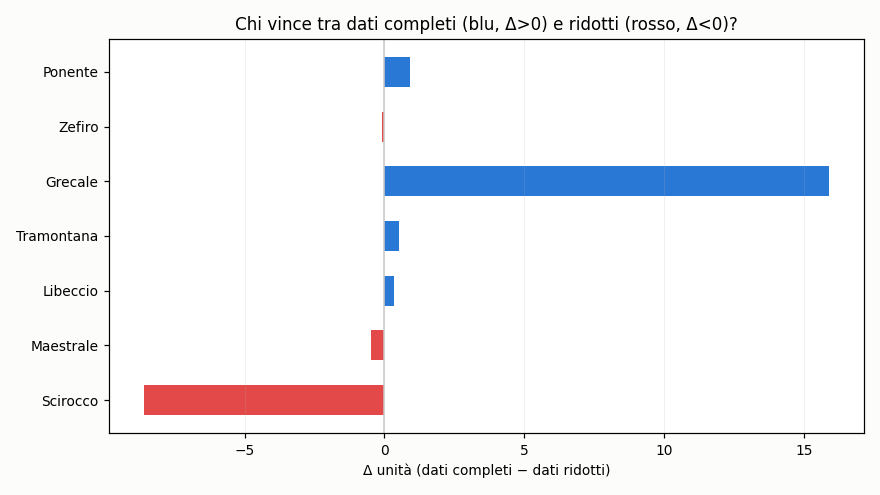
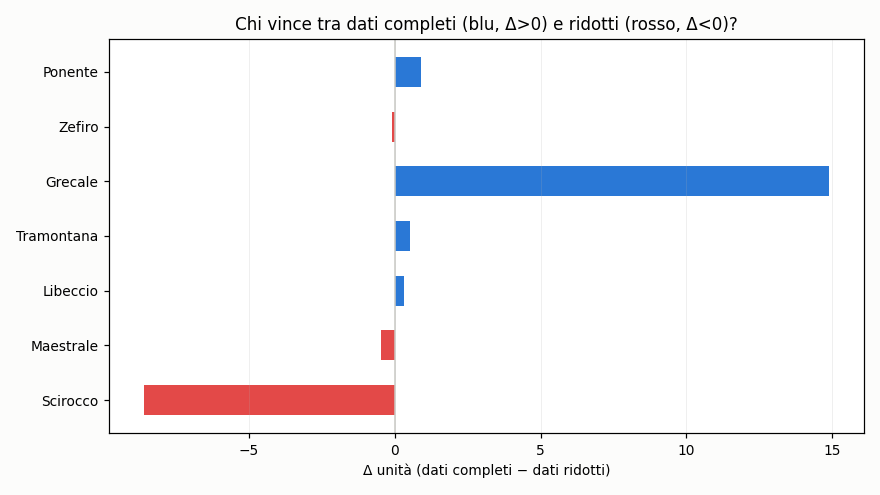
aggiornamento 2026-07-28 14:51 UTC

diff --git a/README.md b/README.md
@@ -37,9 +37,9 @@ scala in unità). Non indichiamo quale.
 
 ## Grafici
 
-![Coppie: dati completi vs ridotti](https://raw.githubusercontent.com/Kitem19/ippica-track-record/main/charts/equity_pairs.png?v=0d0511c6)
+![Coppie: dati completi vs ridotti](https://raw.githubusercontent.com/Kitem19/ippica-track-record/main/charts/equity_pairs.png?v=aae3d1c7)
 
-![Delta per coppia](https://raw.githubusercontent.com/Kitem19/ippica-track-record/main/charts/coppie_delta.png?v=6522e7e2)
+![Delta per coppia](https://raw.githubusercontent.com/Kitem19/ippica-track-record/main/charts/coppie_delta.png?v=26a99e64)
 
 ### Come leggere i grafici
 
@@ -60,7 +60,7 @@ _Poche giornate: numeri ancora rumorosi, si conclude a fine fase (31/7)._
 - **Maestrale**: in sostanziale pareggio — troppo presto per dire
 - **Libeccio**: in sostanziale pareggio — troppo presto per dire
 - **Tramontana**: in sostanziale pareggio — troppo presto per dire
-- **Grecale**: dati completi avanti di 15,9u
+- **Grecale**: dati completi avanti di 14,9u
 - **Zefiro**: in sostanziale pareggio — troppo presto per dire
 - **Ponente**: in sostanziale pareggio — troppo presto per dire
 
@@ -68,22 +68,22 @@ _Poche giornate: numeri ancora rumorosi, si conclude a fine fase (31/7)._
 
 | Sistema | Cassa (u) | P/L (u) | Selezioni | Escluse | Stato |
 |---|---|---|---|---|---|
-| Grecale | 15,6 | -4,4 | 335 | 4 | 🟢 |
+| Grecale | 14,6 | -5,4 | 336 | 4 | 🟢 |
 | Scirocco-B | 8,5 | -11,5 | 254 | 6 | 🟢 |
 | Maestrale-B | 0,0 | -20,0 | 100 | 269 | 🛑 |
-| Ponente | 0,0 | -20,0 | 213 | 48 | 🛑 |
-| Scirocco | 0,0 | -20,1 | 80 | 292 | 🛑 |
-| Grecale-B | 0,0 | -20,2 | 137 | 189 | 🛑 |
-| Tramontana | 0,0 | -20,3 | 45 | 333 | 🛑 |
-| Zefiro-B | 0,0 | -20,5 | 143 | 89 | 🛑 |
-| Maestrale | 0,0 | -20,5 | 104 | 290 | 🛑 |
+| Ponente | 0,0 | -20,0 | 213 | 49 | 🛑 |
+| Scirocco | 0,0 | -20,1 | 80 | 293 | 🛑 |
+| Grecale-B | 0,0 | -20,2 | 137 | 190 | 🛑 |
+| Tramontana | 0,0 | -20,3 | 45 | 334 | 🛑 |
+| Zefiro-B | 0,0 | -20,5 | 143 | 90 | 🛑 |
+| Maestrale | 0,0 | -20,5 | 104 | 291 | 🛑 |
 | Zefiro | 0,0 | -20,6 | 268 | 23 | 🛑 |
-| Libeccio | 0,0 | -20,6 | 181 | 194 | 🛑 |
-| Tramontana-B | 0,0 | -20,8 | 324 | 41 | 🛑 |
+| Libeccio | 0,0 | -20,6 | 181 | 195 | 🛑 |
+| Tramontana-B | 0,0 | -20,8 | 324 | 42 | 🛑 |
 | Libeccio-B | 0,0 | -20,9 | 119 | 208 | 🛑 |
-| Ponente-B | 0,0 | -21,0 | 63 | 109 | 🛑 |
+| Ponente-B | 0,0 | -21,0 | 63 | 110 | 🛑 |
 
-_Aggiornato: 28/07 16:46_
+_Aggiornato: 28/07 16:51_
 ---
 *Nessuna delle informazioni qui pubblicate costituisce consiglio di gioco.
 Il gioco può causare dipendenza — 18+.*
